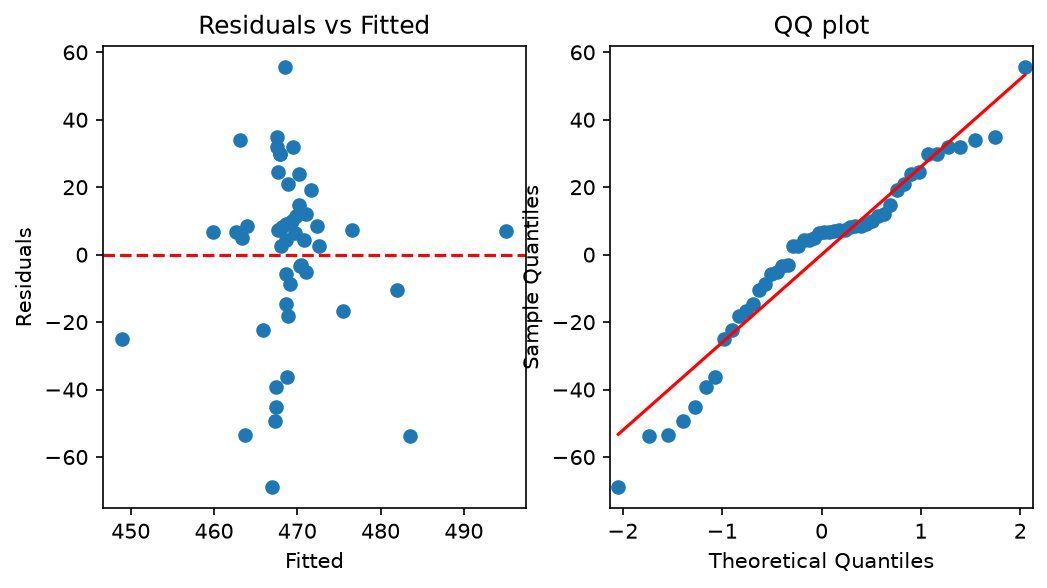
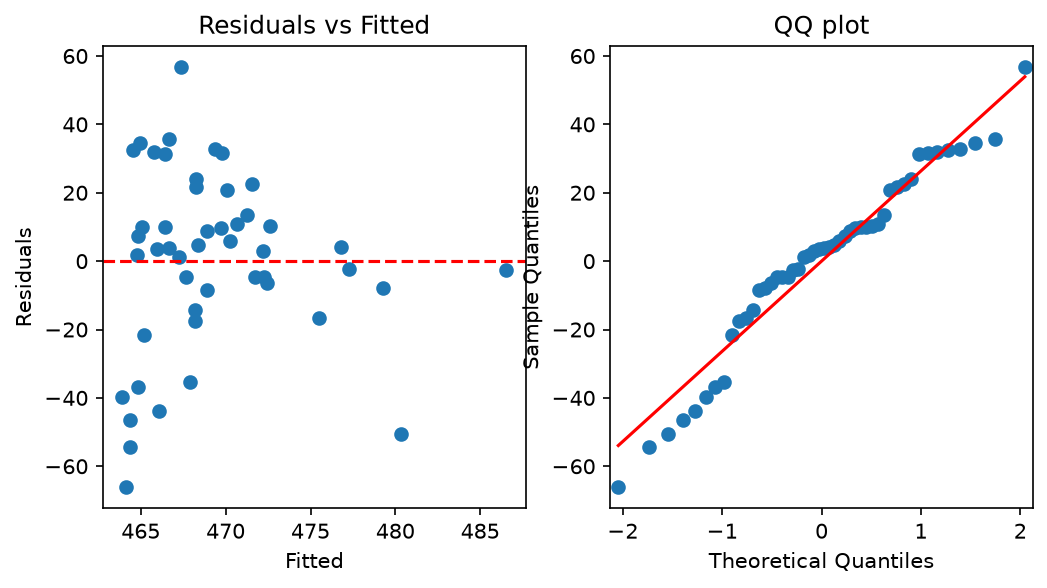
touching q2 things a lil

diff --git a/q2codeplot.py b/q2codeplot.py
@@ -44,7 +44,7 @@ def load_state_table():
     )
 
 
-def prepare_data(df, nitrate_col="nitrate_rate_per_100k_capita"):
+def prepare_data(df, nitrate_col="nitrate_rate_per_system"):
     # ensure nitrate column exists
     if nitrate_col not in df.columns:
         raise KeyError(f"Missing nitrate column: {nitrate_col}")
